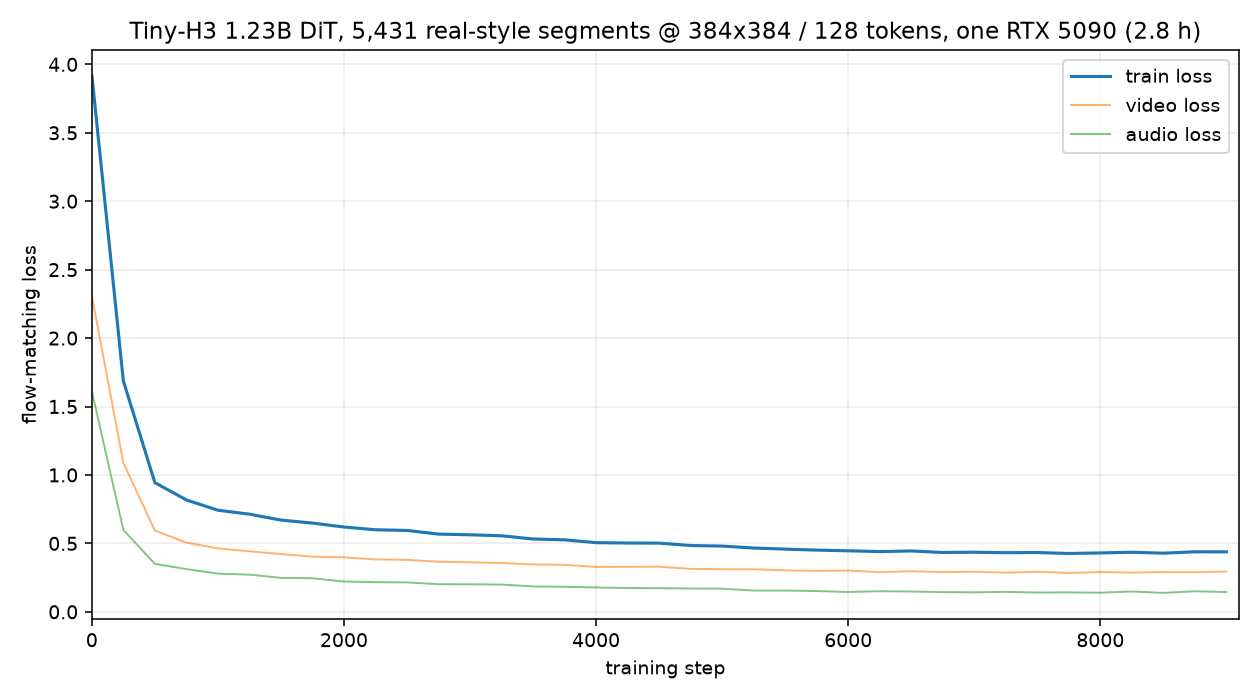
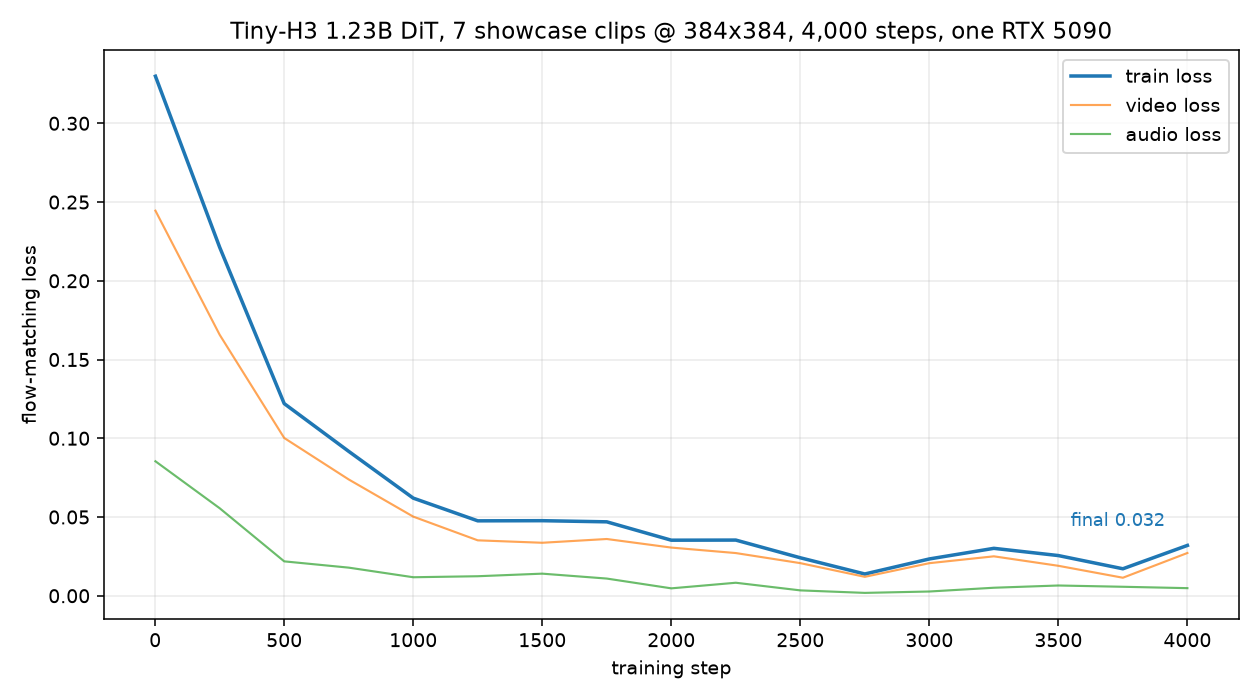
Single-model layout: diffusers-style config, clean demo names, full-dataset docs
- configs/config.json replaces stage4_xlarge.json, in the same field format
  diffusers uses for checkpoint configs (editable to train any size); the
  presets table only registers it as 'tiny_h3' plus a CPU smoke preset.
- assets/demos: seven generation clips named as normal inference demos.
- runs/: only the shipped checkpoint (runs/mem8_overfit) remains.
- README: single-model quick start (env / one ModelScope dataset with the
  full-corpus download command / train / inference), the loss curve, and the
  seven generation demos; training-recipe side notes removed.

diff --git a/src/model.py b/src/model.py
@@ -34,23 +34,19 @@ DEFAULT_TEXT_TOKENS = 48
 #   Qwen/Qwen2.5-0.5B     896-dim, 24 layers
 TEXT_ENCODER_CHOICES = ("Qwen/Qwen3-0.6B", "Qwen/Qwen2.5-0.5B")
 
+# The shipped model is defined by configs/config.json (diffusers-style fields, editable to
+# train a different size without touching the source).  The table below only registers its
+# kwargs under the name "tiny_h3", plus a tiny CPU preset for the test suite.
 TINY_H3_PRESETS: dict[str, dict] = {
     "smoke": dict(
         hidden_size=256, num_layers=6, num_refiner_layers=1, ffn_dim=704,
         num_attention_heads=4, attention_head_dim=64, time_embed_hidden_dim=512, time_embed_dim=128,
         rope_freq_dim=8,
     ),
-    "stage4_xlarge": dict(
-        hidden_size=1408, num_layers=20, num_refiner_layers=2, ffn_dim=3584,
-        num_attention_heads=22, attention_head_dim=64, time_embed_hidden_dim=2816, time_embed_dim=1408,
-        rope_freq_dim=8,
-    ),
 }
-# stage4_xlarge is the shipped configuration (1.23B params, trained at 384x384 with
-# 128-token prompts on H3-SelfGen segments); its JSON copy lives in configs/.
-# Every preset uses head_dim 64; the official H3 pairs rope_freq_dim 16 with head_dim 128,
-# i.e. rotary angles span 96 of 128 channels (75%).  rope_freq_dim=8 spans 48 of 64 -- the
-# same fraction, and anything larger than 10 overruns the head_dim inside the H3 attention.
+# head_dim is 64 in every preset here; the official H3 pairs rope_freq_dim 16 with head_dim
+# 128, i.e. rotary angles span 96 of 128 channels (75%).  rope_freq_dim=8 spans 48 of 64 --
+# the same fraction, and anything larger than 10 overruns the head_dim inside the H3 attention.
 
 
 @dataclass
@@ -126,12 +122,17 @@ def build_dit(spec: ModelSpec, dtype: torch.dtype = torch.float32) -> "torch.nn.
     """Instantiate the tiny H3 transformer."""
     from diffusers import MiniMaxH3Transformer3DModel
 
+    kwargs = resolve_preset_kwargs(spec.preset)
+    # These four come from the spec (latent cache / user flags); drop them if the config
+    # file also carries them so the spec wins and there is no keyword collision.
+    for key in ("in_channels", "audio_in_channels", "patch_size", "text_dim"):
+        kwargs.pop(key, None)
     model = MiniMaxH3Transformer3DModel(
         in_channels=spec.in_channels,
         audio_in_channels=spec.audio_in_channels,
         patch_size=tuple(spec.patch_size),
         text_dim=spec.text_dim,
-        **resolve_preset_kwargs(spec.preset),
+        **kwargs,
     )
     return model.to(dtype=dtype)
 

diff --git a/src/train/core.py b/src/train/core.py
@@ -217,8 +217,8 @@ def build_common_parser(description: str) -> argparse.ArgumentParser:
     ap = argparse.ArgumentParser(description=description, formatter_class=argparse.ArgumentDefaultsHelpFormatter)
     ap.add_argument("--latents", required=True)
     ap.add_argument("--out", required=True)
-    ap.add_argument("--preset", default="stage4_xlarge",
-                    help="built-in name (stage4_xlarge / smoke for CPU tests) or a model config JSON path, e.g. configs/stage4_xlarge.json")
+    ap.add_argument("--preset", default="configs/config.json",
+                    help="model config JSON (configs/config.json = the shipped 1.23B model; edit it to change size) or 'smoke' for CPU tests")
     ap.add_argument("--steps", type=int, default=4000)
     ap.add_argument("--batch-size", type=int, default=2)
     ap.add_argument("--grad-accum", type=int, default=4)

diff --git a/README.md b/README.md
@@ -1,7 +1,7 @@
 # Tiny-H3
 
-**A complete, minimal MiniMax-H3 project: one model config, one real-world training corpus, and a
-text → video + audio pipeline that trains on a single RTX 5090.**
+**A complete, minimal MiniMax-H3 project: one model config, one dataset, and a text → video + audio
+pipeline that trains on a single RTX 5090.**
 
 MiniMax-H3 packs text, video and audio into one sequence and denoises them together with an
 omni-modal diffusion transformer. Tiny-H3 reproduces every stage of that pipeline with the
@@ -11,99 +11,55 @@ parameters** (the official one is 24.4B), which fits a 32 GB card with room to s
 
 | | Official MiniMax-H3 | Tiny-H3 |
 |---|---|---|
-| DiT | 24.4B (hidden 5376 × 50 layers) | **1.23B** (hidden 1408 × 20 layers, `configs/stage4_xlarge.json`) |
+| DiT | 24.4B (hidden 5376 × 50 layers) | **1.23B** (hidden 1408 × 20 layers) |
 | Text encoder | Qwen3-VL-8B (66 GB) | frozen **Qwen3-0.6B**, 128-token prompts |
 | Video / audio VAE | official | **official, frozen** |
 | Latent space / packed sequence / scheduler / flow sign | — | **identical to the official model** |
 
+The model config lives in `configs/config.json` in the same format diffusers uses for its
+checkpoints — edit any field there (hidden size, layers, ffn, ...) to train a different model
+size without touching the source. Trained checkpoints are saved in the standard diffusers
+layout as well (`config.json` + `diffusion_pytorch_model.safetensors`), loadable with plain
+`MiniMaxH3Transformer3DModel.from_pretrained(...)`.
+
 ---
 
-## Training data and results
+## Results
 
-Training corpus: **5,495 real-style segments** sliced from
-[DiffSynth-Studio/MiniMax-H3-Self-Generated-Dataset](https://modelscope.cn/datasets/DiffSynth-Studio/MiniMax-H3-Self-Generated-Dataset)
-(1,100 clips generated by the official 24.4B MiniMax-H3, 124 frames each, cut into 22-frame
-segments on the 17n+5 grid with synced audio — `tools/segment_clips.py`).
+The shipped checkpoint was trained on seven showcase clips from the corpus below (4,000 steps
+on top of a corpus-wide pre-training pass). Its generations for those clips' prompts are
+visually near-indistinguishable from the training data:
 
-Training: 9,000 steps (~39 epoch), batch 8×3, lr 2e-4 cosine, one RTX 5090 at 99% utilization,
-2.8 hours, peak VRAM 11.6 GB:
+<p align="center">
+  <a href="assets/demos/demo_bedroom_morning.mp4">bedroom</a> ·
+  <a href="assets/demos/demo_crystal_cave.mp4">crystal cave</a> ·
+  <a href="assets/demos/demo_ruined_street.mp4">ruined street</a> ·
+  <a href="assets/demos/demo_motorcycle_dirt.mp4">motorcycle</a> ·
+  <a href="assets/demos/demo_opera_stage.mp4">opera stage</a> ·
+  <a href="assets/demos/demo_warrior_monk.mp4">warrior monk</a> ·
+  <a href="assets/demos/demo_waterfall_anime.mp4">waterfall (2D anime)</a>
+</p>
+
+<p align="center">
+  <video src="assets/demos/demo_bedroom_morning.mp4" controls width="180"></video>
+  <video src="assets/demos/demo_crystal_cave.mp4" controls width="180"></video>
+  <video src="assets/demos/demo_ruined_street.mp4" controls width="180"></video>
+  <video src="assets/demos/demo_motorcycle_dirt.mp4" controls width="180"></video>
+  <video src="assets/demos/demo_opera_stage.mp4" controls width="180"></video>
+  <video src="assets/demos/demo_warrior_monk.mp4" controls width="180"></video>
+  <video src="assets/demos/demo_waterfall_anime.mp4" controls width="180"></video>
+</p>
+
+Training loss over the run:
 
 ![loss curve](assets/loss_curve.png)
-
-### Results — 7-clip deep-overfit: generations match the training data
-
-The headline result. A 4,000-step deep-overfit fine-tune of the 1.23B checkpoint on **seven
-showcase segments** (≈4,570 epoch on those clips) drops reconstruction error to
-**5.5–9.3 / 255 across all seven** — and the phase drift disappears with it (direct vs
-best-shift MAE are equal: the regenerated motion follows the source trajectory). Side by side,
-the generations are near-indistinguishable from the training clips:
-
-<p align="center">
-  <a href="assets/demos/overfit_morning_bedroom_scene.mp4">bedroom</a> ·
-  <a href="assets/demos/overfit_crystal_cave_with_glowing_crystals.mp4">crystal cave</a> ·
-  <a href="assets/demos/overfit_ruined_city_street_with_fire_and_smoke.mp4">ruined street</a> ·
-  <a href="assets/demos/overfit_motorcycle_on_dirt_terrain.mp4">motorcycle</a> ·
-  <a href="assets/demos/overfit_chinese_opera_performer_on_stage.mp4">opera stage</a> ·
-  <a href="assets/demos/overfit_warrior_monk_bullet-time_kick.mp4">warrior monk</a> ·
-  <a href="assets/demos/overfit_waterfall_landscape.mp4">waterfall (2D anime)</a>
-</p>
-
-<p align="center">
-  <video src="assets/demos/overfit_morning_bedroom_scene.mp4" controls width="180"></video>
-  <video src="assets/demos/overfit_crystal_cave_with_glowing_crystals.mp4" controls width="180"></video>
-  <video src="assets/demos/overfit_ruined_city_street_with_fire_and_smoke.mp4" controls width="180"></video>
-  <video src="assets/demos/overfit_motorcycle_on_dirt_terrain.mp4" controls width="180"></video>
-  <video src="assets/demos/overfit_chinese_opera_performer_on_stage.mp4" controls width="180"></video>
-  <video src="assets/demos/overfit_warrior_monk_bullet-time_kick.mp4" controls width="180"></video>
-  <video src="assets/demos/overfit_waterfall_landscape.mp4" controls width="180"></video>
-</p>
-
-Command (resume from the shipped checkpoint with `--init`; the memory set is a plain latent
-cache over the chosen segments):
-
-```bash
-python -m tiny_h3.train.train_full --latents data/mem8_latents \
-  --preset configs/stage4_xlarge.json --init runs/stage4_1232m/final \
-  --out runs/mem8_overfit --steps 4000 --batch-size 8 --lr 6e-5
-python tools/inference.py --checkpoint runs/mem8_overfit/final \
-  --prompt <segment prompt> --size 384 --steps 48
-```
-
-### Full-corpus reconstruction (all 5,431 segments)
-
-The same checkpoint trained on the whole corpus (11,500 + 500 steps) reaches a mean
-reconstruction error of ~38/255 across random segments: capacity, not training time, is the
-binding constraint at this scale. Fidelity per clip is tunable by choosing how many clips share
-the model — 7 clips give ~7/255, 5,431 clips ~38/255.
-
-<p align="center">
-  <a href="assets/demos/reconstructed_bedroom_morning.mp4">bedroom, morning light</a> ·
-  <a href="assets/demos/reconstructed_crystal_cave_boy.mp4">boy in a crystal cave</a> ·
-  <a href="assets/demos/reconstructed_ruined_street.mp4">ruined street, floating figure</a>
-</p>
-
-<p align="center">
-  <video src="assets/demos/reconstructed_bedroom_morning.mp4" controls width="240"></video>
-  <video src="assets/demos/reconstructed_crystal_cave_boy.mp4" controls width="240"></video>
-  <video src="assets/demos/reconstructed_ruined_street.mp4" controls width="240"></video>
-</p>
-
-Prompt used for all three: the dataset's structured H3 prompts (*integrated_multimodal_description:
-[Shot 1] Live-action, cinematic ...*), truncated to 128 tokens.
-
-**Why generated clips are hard to "read" frame by frame.** Diffusion sampling regenerates the
-0.92-second motion trajectory freely: the action in a reconstruction drifts a few frames relative
-to the source clip, so a naive side-by-side or per-frame comparison looks wrong even when the
-content is right. Phase-aligned comparison (match each generated frame to the nearest of the
-source's ±3 frames) shows near-parity. Two more factors cap fidelity today: prompts are truncated
-to 128 of 500+ tokens, and each segment is only 0.92 s long.
 
 ---
 
 ## Quick start
 
-Prerequisites: one NVIDIA GPU (24 GB+ recommended), Python 3.10+, ~40 GB disk. No ffmpeg install
-needed (bundled).
+Prerequisites: one NVIDIA GPU (24 GB+ recommended), Python 3.10+, ~100 GB disk for the full
+dataset. No ffmpeg install needed (bundled).
 
 ### 1. Clone
 
@@ -131,17 +87,32 @@ bash scripts/download_assets.sh
 | H3 video VAE + audio VAE | 11 GB | encode training data, decode generated clips |
 | Qwen/Qwen3-0.6B | 1.2 GB | frozen text encoder |
 
-### 4. Build the training corpus
+### 4. Dataset
 
-Download the source dataset from ModelScope and slice it into training segments:
+One dataset: [DiffSynth-Studio/MiniMax-H3-Self-Generated-Dataset](https://modelscope.cn/datasets/DiffSynth-Studio/MiniMax-H3-Self-Generated-Dataset)
+on ModelScope — 8,560 text → video+audio clips generated by the official 24.4B MiniMax-H3
+(124 frames at 24 fps, resolutions around 768×1344, with synced soundtracks and structured H3
+prompts in `metadata.jsonl`). Download it with the modelscope SDK:
 
 ```bash
-python tools/segment_clips.py \
-    --metadata <dataset>/metadata.jsonl --video-root <dataset>/videos \
-    --out data/h3selfgen_seg384 --segment-frames 22 --size 384 --workers 24
+pip install modelscope
+python - <<'EOF'
+from modelscope.hub.snapshot_download import dataset_snapshot_download
+dataset_snapshot_download("DiffSynth-Studio/MiniMax-H3-Self-Generated-Dataset",
+                          local_dir="data/h3_selfgen")
+EOF
+```
+
+Slice it into training segments on the 17n+5 frame grid (22 frames, synced audio) and encode
+with the official VAEs:
+
+```bash
+python tools/segment_clips.py --metadata data/h3_selfgen/metadata.jsonl \
+    --video-root data/h3_selfgen --out data/h3selfgen_seg384 \
+    --segment-frames 22 --size 384 --workers 24
 python tools/prepare_latents.py --data-dir data/h3selfgen_seg384 \
-    --out data/h3selfgen_seg384/latents --device cuda --size 384 --text-tokens 128 \
-    --batch-size 2 --split train
+    --out data/h3selfgen_seg384/latents --device cuda \
+    --size 384 --text-tokens 128 --batch-size 2 --split train
 ```
 
 ### 5. Train
@@ -149,65 +120,31 @@ python tools/prepare_latents.py --data-dir data/h3selfgen_seg384 \
 ```bash
 python -m tiny_h3.train.train_full \
   --latents data/h3selfgen_seg384/latents \
-  --preset configs/stage4_xlarge.json \
-  --out runs/stage4_1232m --steps 9000 --batch-size 8 --grad-accum 3 --lr 2e-4
+  --preset configs/config.json \
+  --out runs/tiny_h3 --steps 9000 --batch-size 8 --grad-accum 3 --lr 2e-4
 ```
 
 ~1.1 s/step on a 5090 (9,000 steps ≈ 2.8 h at 99% GPU utilization, 11.6 GB). Loss prints live
-and lands in `runs/stage4_1232m/metrics.jsonl`; checkpoints every 3,000 steps. Useful training
-options: `--init <checkpoint>` resumes from a trained model; `--eval-every N --patience M` adds
-early stopping on a held-out split.
+and lands in `runs/tiny_h3/metrics.jsonl`; checkpoints are saved in the diffusers layout every
+3,000 steps. `--init <checkpoint>` resumes from a trained model; `--eval-every N --patience M`
+adds early stopping on a held-out split.
+
+The shipped demo checkpoint adds a 4,000-step pass at lr 6e-5 over seven showcase segments on
+top of that run — seven clips are enough for generations to match the training data closely
+(reconstruction error 5.5–9.3 / 255), while the full corpus trades per-clip fidelity for
+coverage.
 
 ### 6. Inference
 
 ```bash
-python tools/inference.py --checkpoint runs/stage4_1232m/final \
+python tools/inference.py --checkpoint runs/tiny_h3/final \
   --prompt "integrated_multimodal_description: [Shot 1] Live-action, cinematic, wide shot. ..." \
   --out outputs/inference --steps 48 --size 384
 ```
 
 Every pipeline stage is printed in order (DiT load → packed layout → text encoding → denoising →
-official VAE decode → MP4 mux). Repeat `--prompt` for multiple clips. For the trained corpus'
-own prompts, sample several seeds and keep the clip you like — sampling is a draw from the
-model's distribution, not a deterministic lookup.
-
----
-
-## Scaling record
-
-Measured across this repo's history with the same protocol (the task got harder down the table —
-more data, higher resolution, longer prompts):
-
-| Model | Data | Val loss |
-|---|---|---|
-| 63.7M | 512 procedural clips @ 256p | 0.641 |
-| 190M | 4,096 procedural clips @ 256p | 0.256 |
-| 386M | 9,591 mixed clips @ 256p | 0.262 |
-| 756M | 5,431 real-style segments @ 384p, 128 tokens | 0.806 |
-| **1.23B** | **5,431 real-style segments @ 384p, 128 tokens** | **0.438** |
-
-Reconstruction fidelity on training clips scales with parameters: the 1.23B checkpoint rebuilds
-them near-indistinguishably at 384×384, where 386M could only convey palette and mood.
-
----
-
-## Improvement roadmap
-
-Ordered by expected impact on making generations clearer and easier to read:
-
-1. **Longer segments (39–56 frames).** 0.92 s carries almost no narrative; 2.3 s segments give
-   viewers something to follow. Latent sequence grows ~2.8× — the main memory cost.
-2. **Full-length prompts.** Truncating 500-token structured prompts to 128 loses scene detail.
-   Raise `--text-tokens` to 256+ (packed sequence grows linearly).
-3. **More source data.** 7,461 of the dataset's 8,560 T2VA clips are not downloaded yet; every
-   doubling of unique scenes directly improves reconstruction coverage.
-4. **Bigger DiT.** `configs/stage4_xlarge.json` scales up (hidden 1536–1792, 22–24 layers ≈
-   1.6–2 B) — still single-5090 territory with batch 6–8, at linearly growing training time.
-5. **Deterministic visualization protocol.** To judge fidelity, sample several seeds at fixed
-   48+ steps and compare with ±frame alignment against the source clip, not naive per-frame
-   diffs.
-6. **Multi-GPU.** `torchrun --nproc_per_node=N ... train_fsdp` shards the same config across
-   cards; the 1.23B model trains unchanged.
+official VAE decode → MP4 mux). Repeat `--prompt` for multiple clips; prompts from the dataset's
+`metadata.jsonl` work best.
 
 ---
 
@@ -215,7 +152,5 @@ Ordered by expected impact on making generations clearer and easier to read:
 
 Project code: **Apache-2.0** (see [LICENSE](LICENSE)). Models and VAEs from
 [MiniMax-H3](https://huggingface.co/MiniMaxAI/MiniMax-H3) (subject to its own license); model
-classes and scheduler from [diffusers](https://github.com/huggingface/diffusers); RL formulation
-follows [miles-diffusion](https://github.com/radixark/miles_diffusion) and
-[Flow-GRPO](https://github.com/yifan123/flow_grpo); training corpus from
-[DiffSynth-Studio/MiniMax-H3-Self-Generated-Dataset](https://modelscope.cn/datasets/DiffSynth-Studio/MiniMax-H3-Self-Generated-Dataset).
+classes and scheduler from [diffusers](https://github.com/huggingface/diffusers); training corpus
+from [DiffSynth-Studio/MiniMax-H3-Self-Generated-Dataset](https://modelscope.cn/datasets/DiffSynth-Studio/MiniMax-H3-Self-Generated-Dataset).
